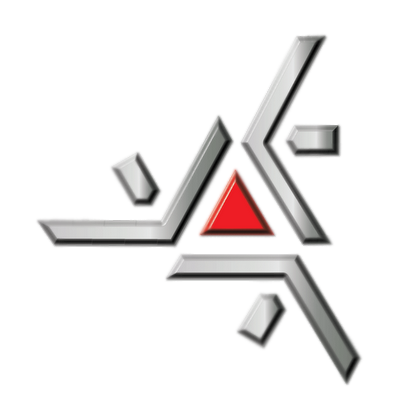
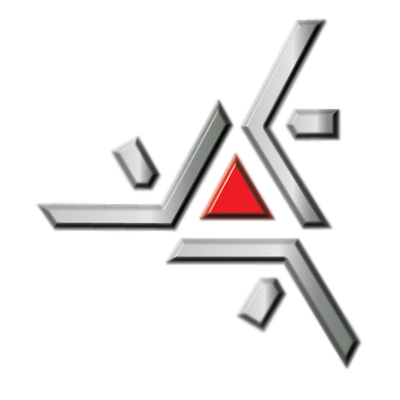
- ajuste linha vermelha

Changed region(s): [[0.09, 0.03, 0.9, 0.96]]

diff --git a/main.tex b/main.tex
@@ -92,12 +92,12 @@
 		\vspace*{-1.44cm}\hspace*{-0.1cm}
 	\hbox{\includegraphics[width=1.6cm,height=1.4cm]{img/uem2.png}}}
 	
- \vspace*{-0.03cm}
+ \vspace*{-0.02cm}
 	 \hbox{%
-	 	\tikz\draw[draw=none,top color=white,bottom color=white] (0,0) rectangle (\paperwidth,0.05);
+	 	\tikz\draw[draw=none,top color=white,bottom color=white] (0,0) rectangle (\paperwidth,0.04);
 	 }%
 	  
-	 \vspace*{-0.04cm}
+	 \vspace*{-0.03cm}
 	 \hbox{%
 	 	\tikz\draw[draw=none,top color=red!100,bottom color=red!100] (0,0) rectangle (\paperwidth,0.02);
 	 }%
